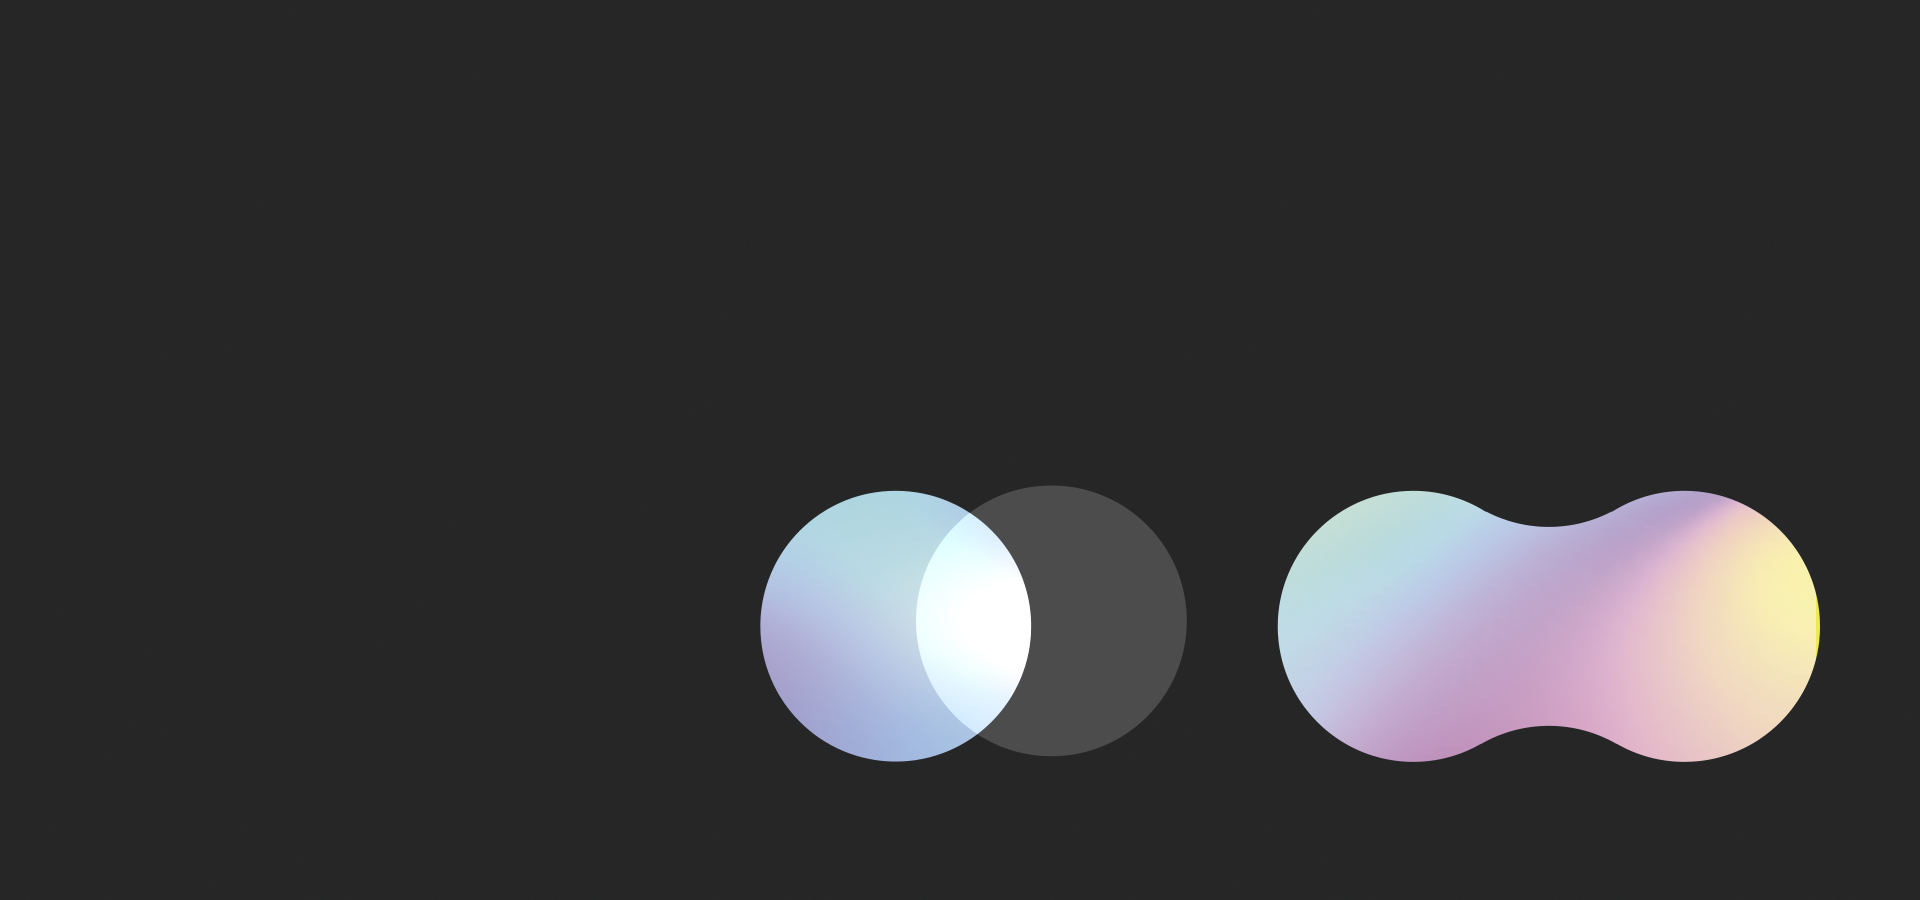
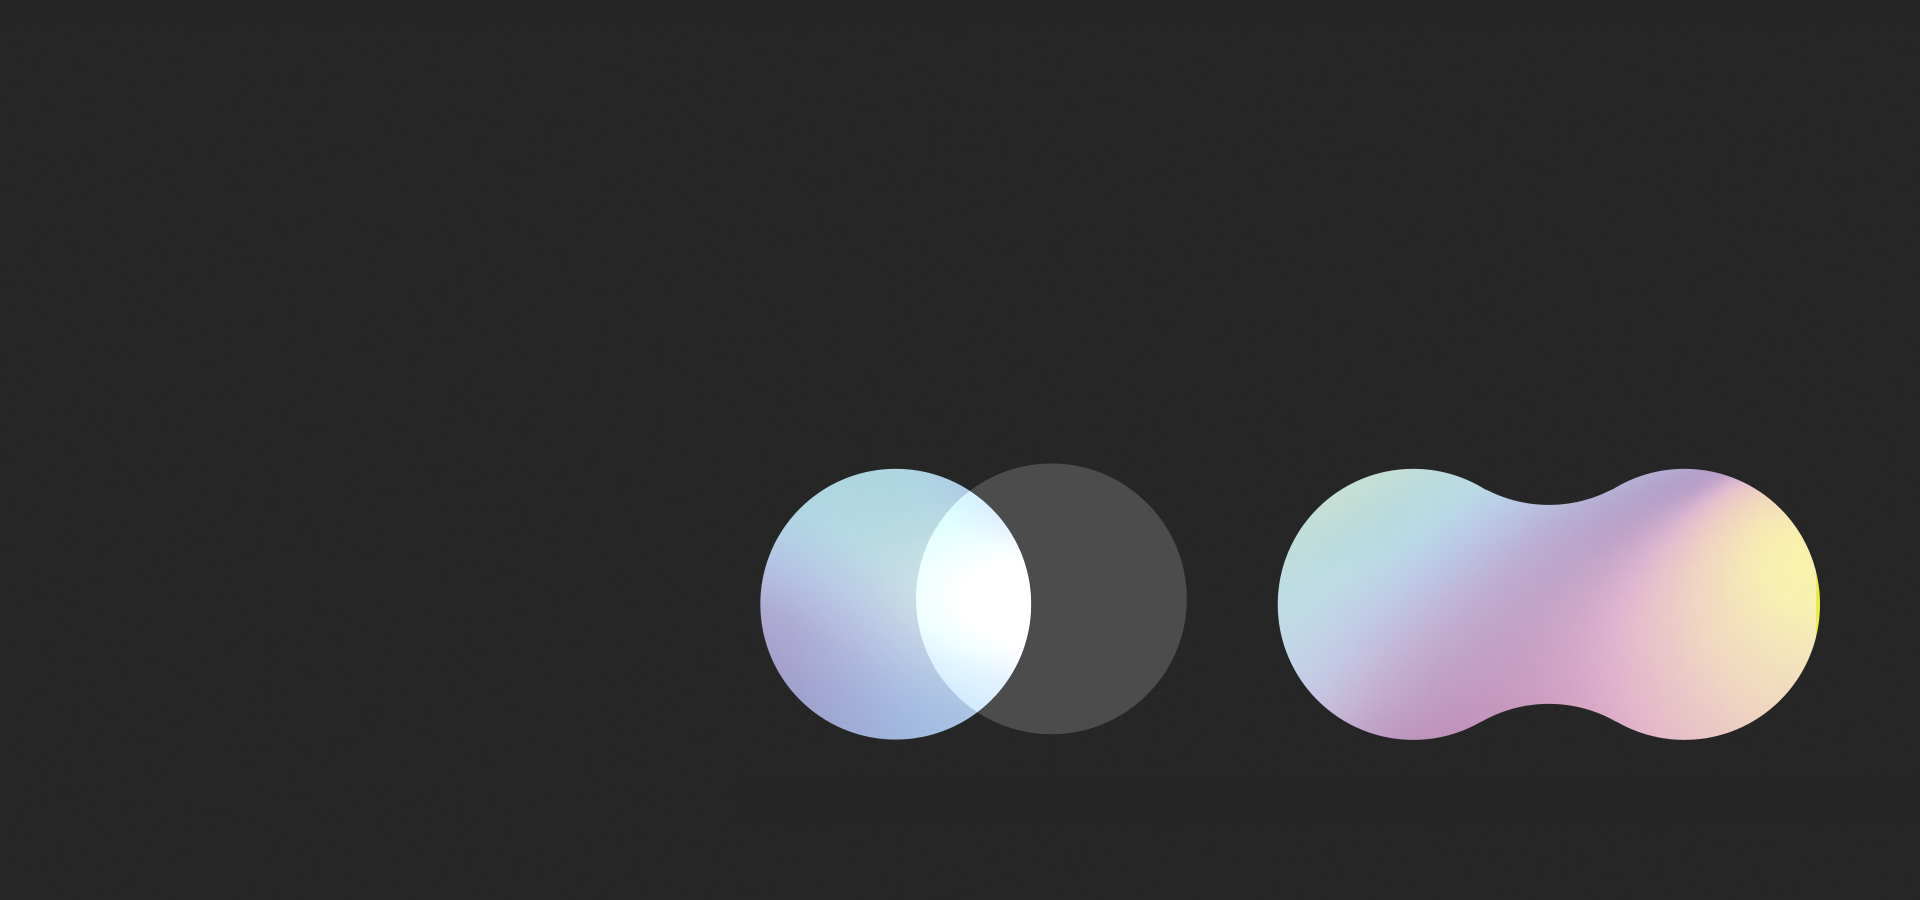
20191020

diff --git a/index.html b/index.html
@@ -65,7 +65,7 @@
 			<div class="container">
 				<div class="row fullscreen justify-content-center align-items-center">
 					<div class="col-lg-8">
-						<div class="banner-content text-center">
+						<div class="banner-content text-center pb-200">
 							<p class="text-white text-uppercase">PORTFOLIO. 2019 edition</p>
 							<h1 class="text-white">안녕하세요! 웹 퍼블리셔 김영애입니다.</h1>
 							<!-- <a href="#" class="primary-btn banner-btn">Scroll</a> -->

diff --git a/css/main.css b/css/main.css
@@ -522,6 +522,10 @@ td, th {
   padding: 150px 0;
 }
 
+.pb-200 {
+  padding-bottom: 200px;
+}
+
 .pr-30 {
   padding-right: 30px;
 }
